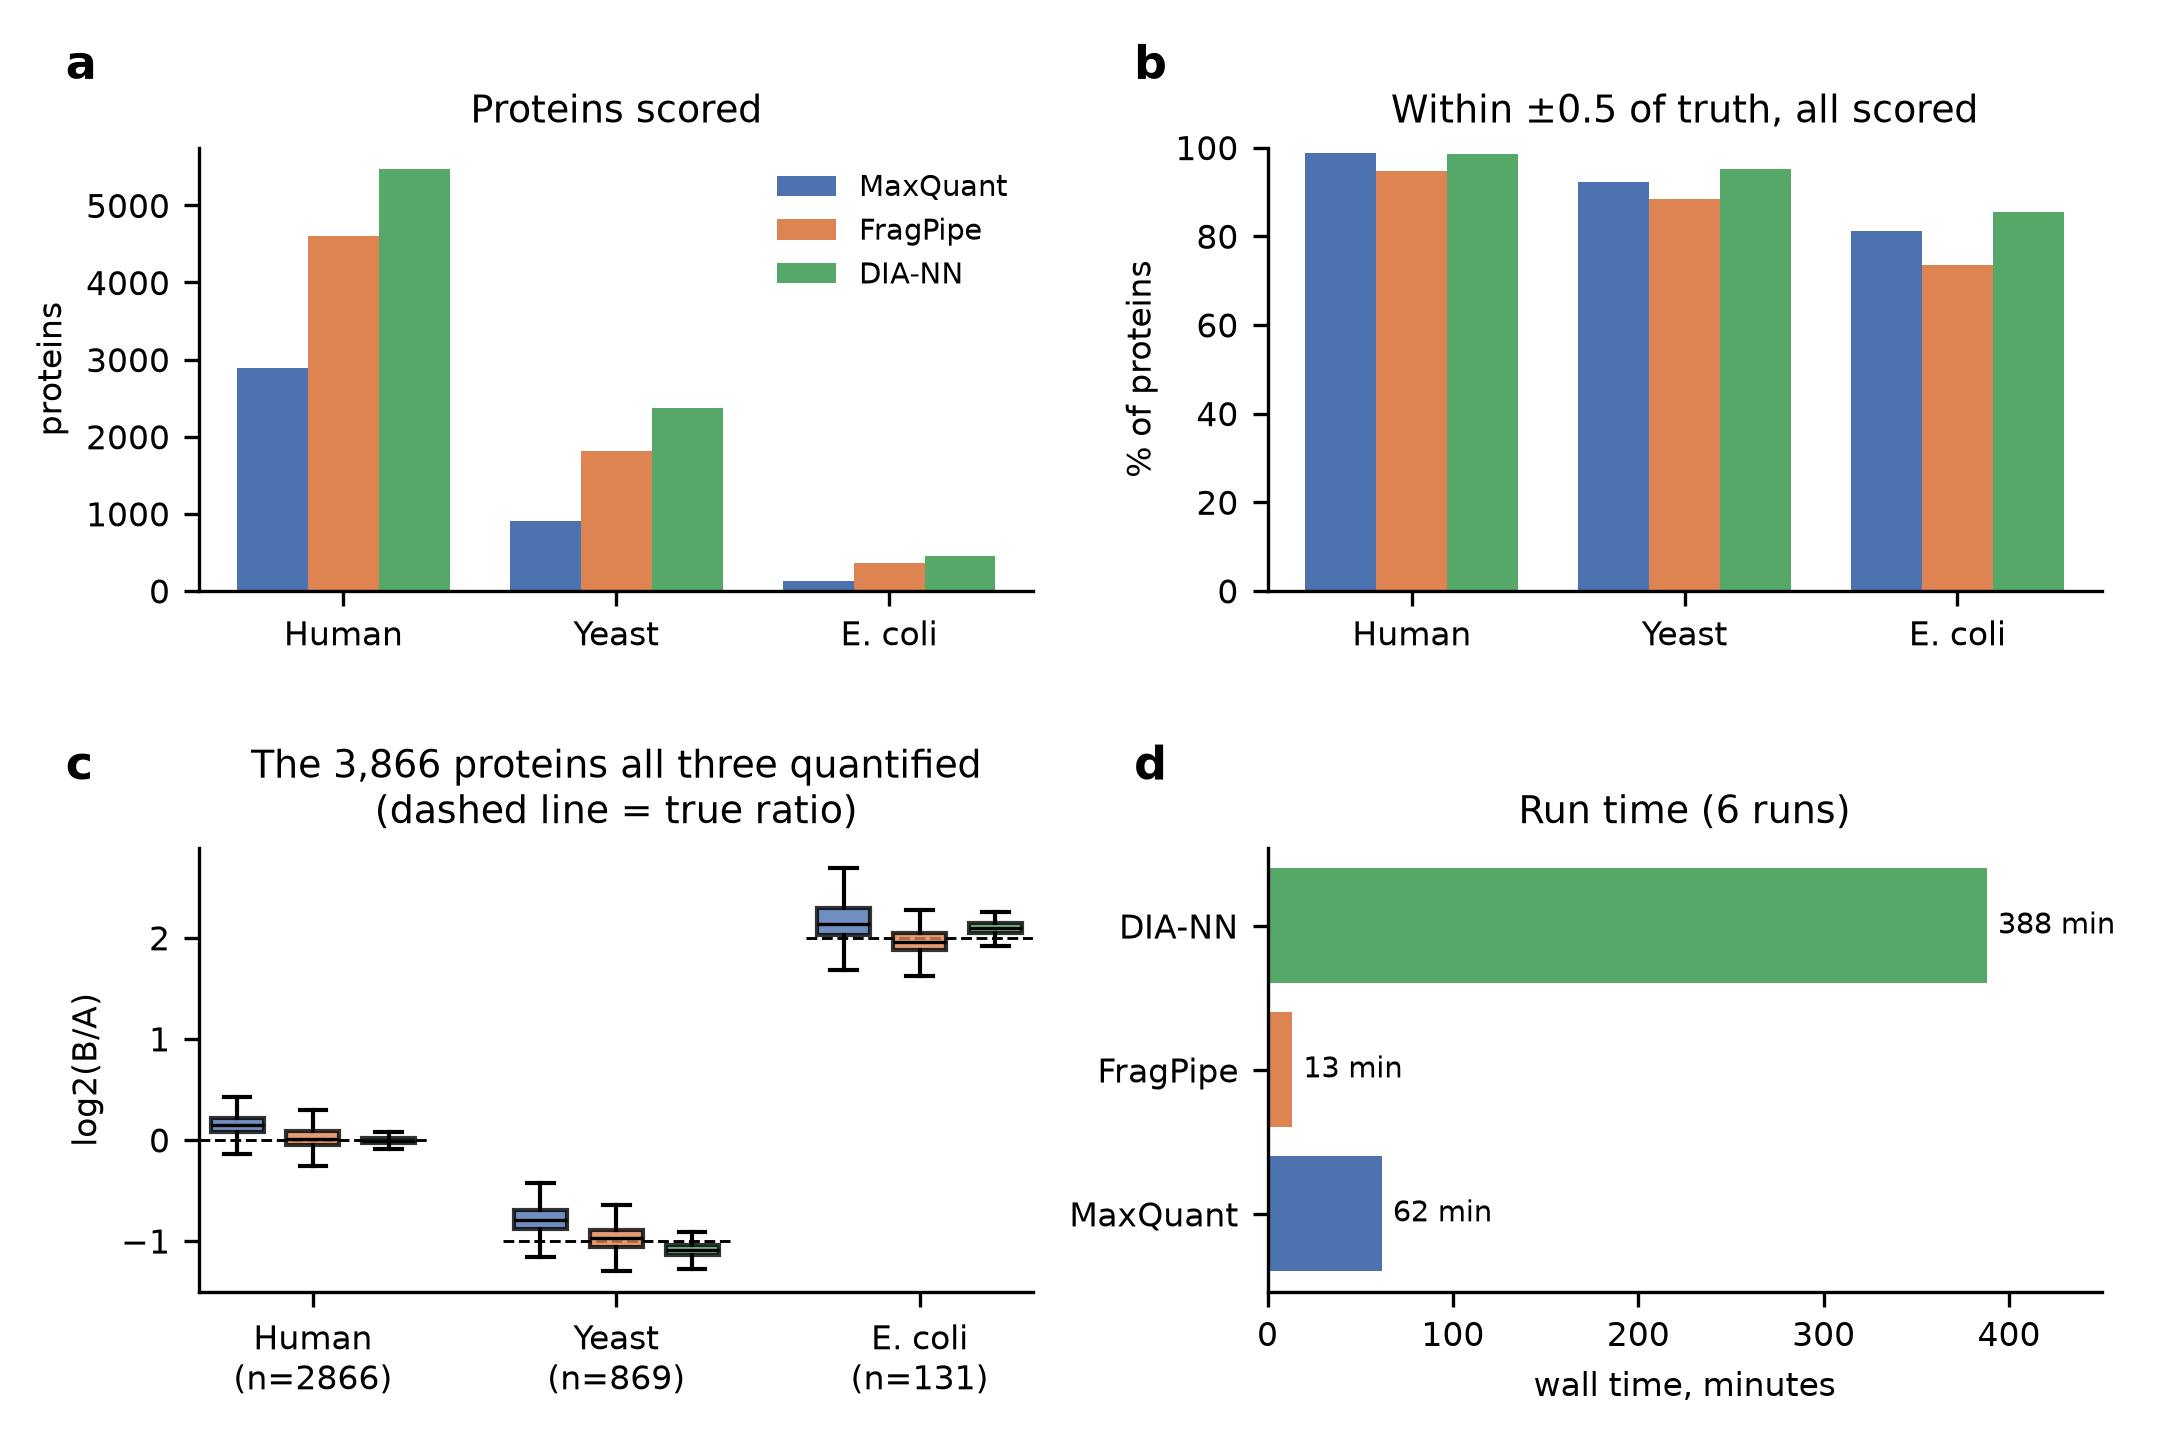
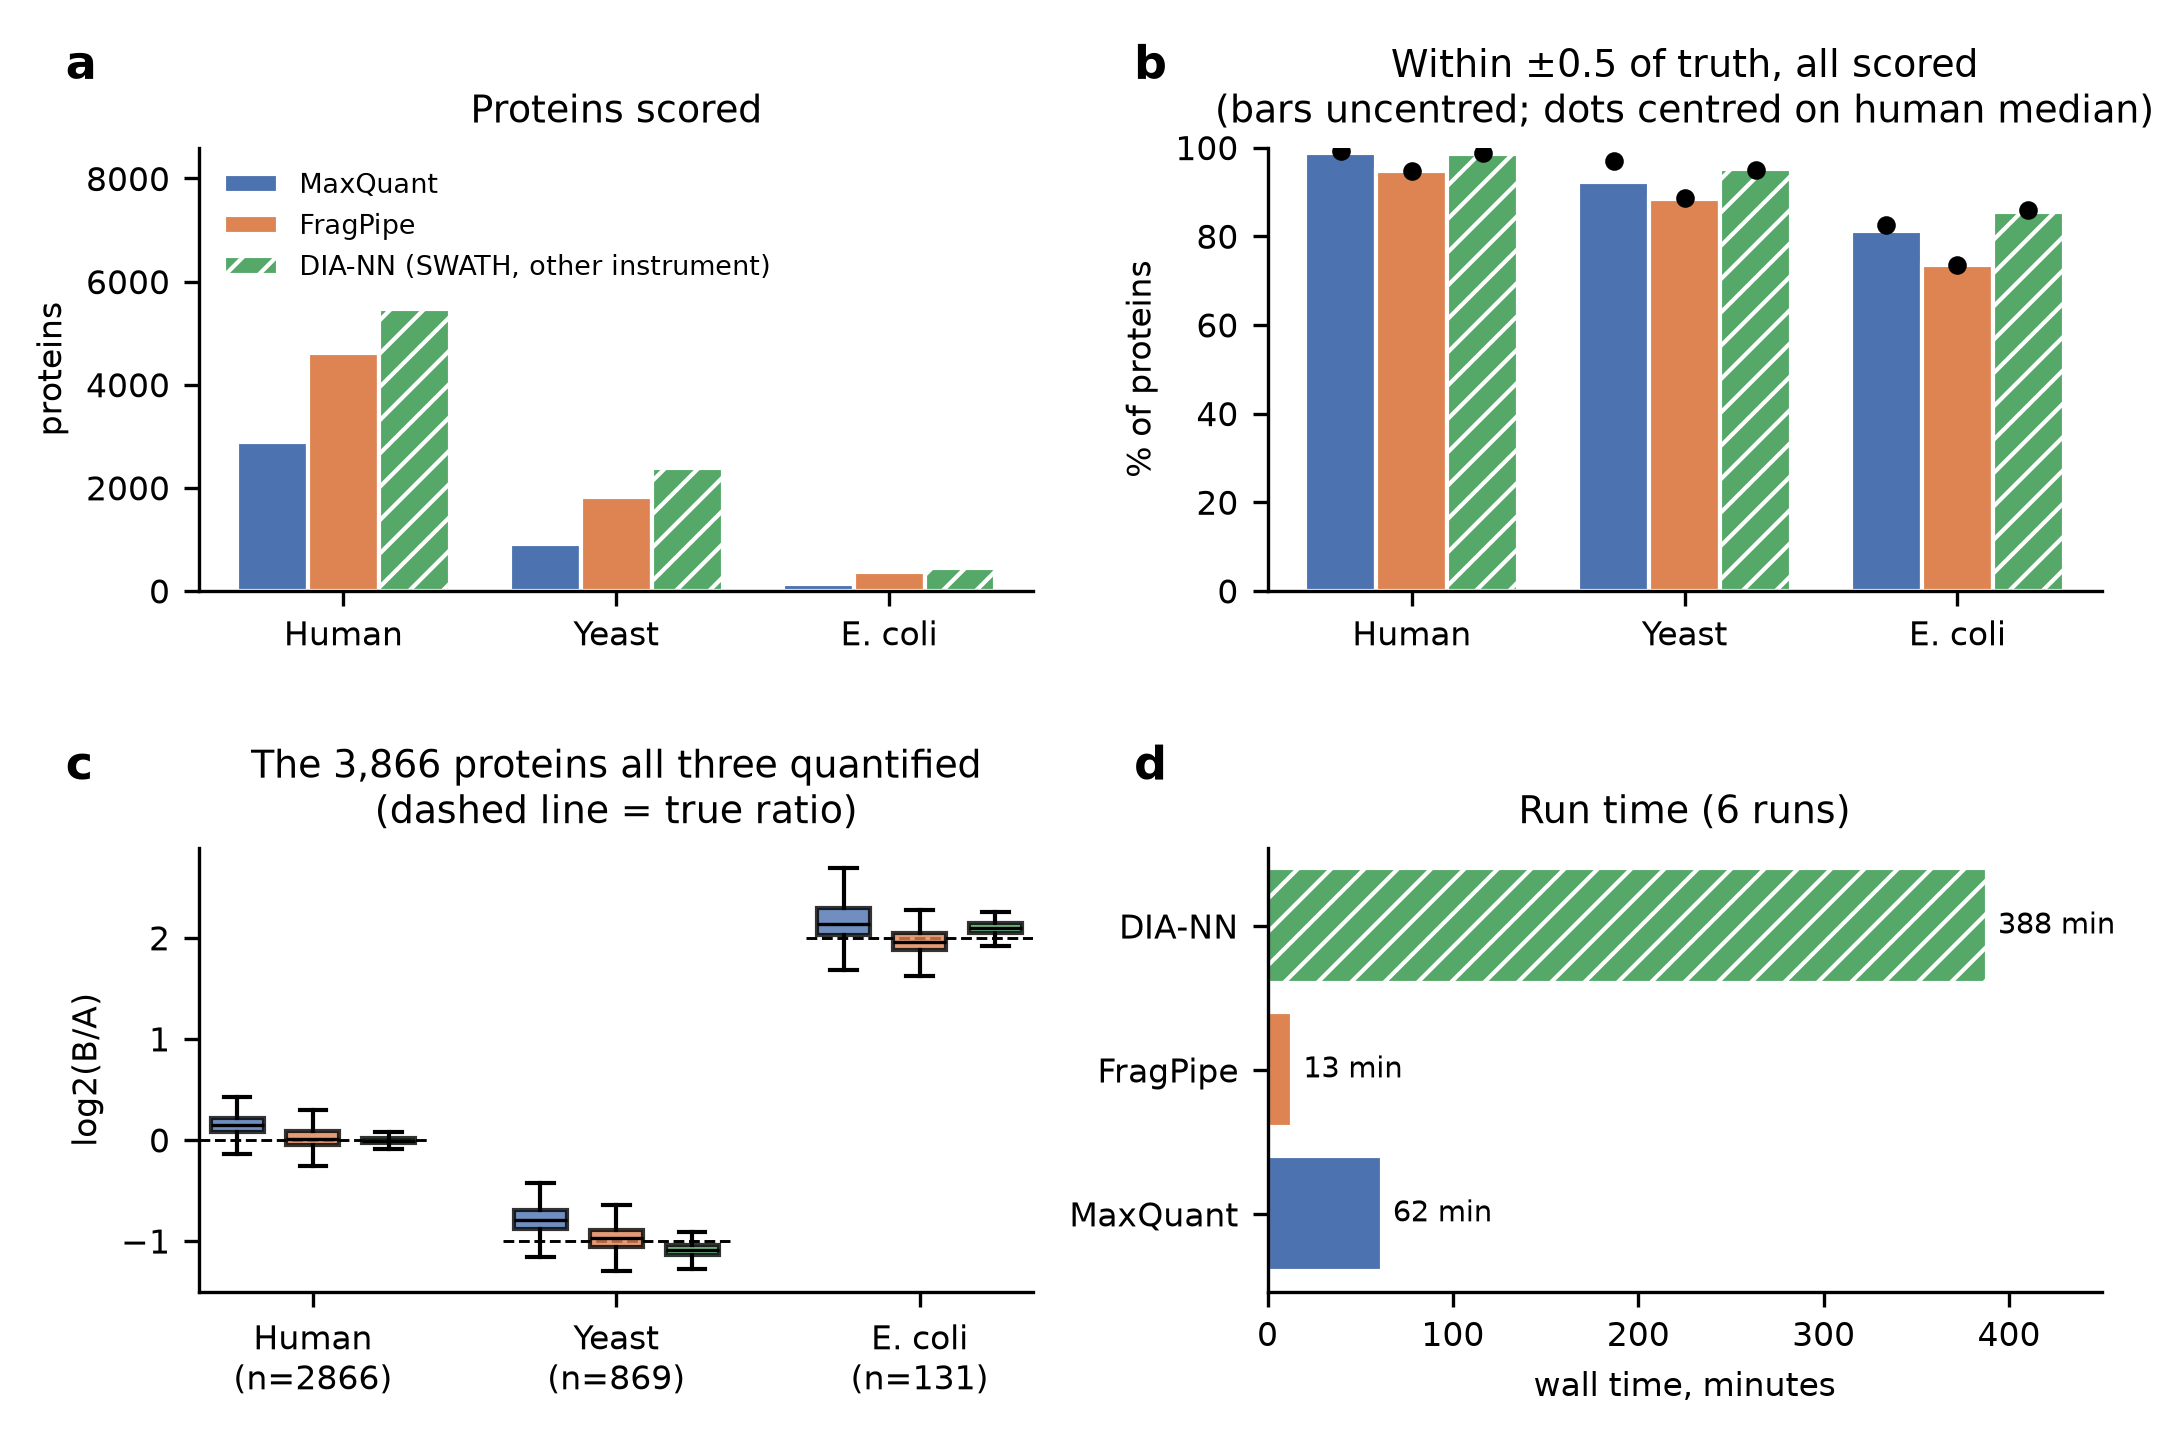
v1.0.2: centred engine scores, intensity-matched MBR check, updated figures; DIA-NN README wording

diff --git a/preprint-hye/figures.py b/preprint-hye/figures.py
@@ -29,12 +29,17 @@ tab = {"MaxQuant": mq, "FragPipe": fp, "DIA-NN": dn}
 
 fig, axs = plt.subplots(2, 2, figsize=(7.2, 4.8)); axs = axs.ravel()
 x = np.arange(3); w = 0.26
+cen = pd.read_csv(Path(__file__).resolve().parent / "centred_engines.csv").set_index(["engine", "species"])
+HATCH = {"DIA-NN": "///"}
 for i, e in enumerate(ENG):
-    axs[0].bar(x + (i - 1) * w, [tab[e].loc[s, "n"] for s in SP], w, color=COL[e], label=e)
-    axs[1].bar(x + (i - 1) * w, [100 * tab[e].loc[s, "within_0.5"] for s in SP], w, color=COL[e])
-for a, t, yl in [(axs[0], "Proteins scored", "proteins"), (axs[1], "Within ±0.5 of truth, all scored", "% of proteins")]:
+    lab = e + (" (SWATH, other instrument)" if e == "DIA-NN" else "")
+    axs[0].bar(x + (i - 1) * w, [tab[e].loc[s, "n"] for s in SP], w, color=COL[e], label=lab, hatch=HATCH.get(e), edgecolor="white")
+    axs[1].bar(x + (i - 1) * w, [100 * tab[e].loc[s, "within_0.5"] for s in SP], w, color=COL[e], hatch=HATCH.get(e), edgecolor="white")
+    axs[1].scatter(x + (i - 1) * w, [cen.loc[(e, s), "within_centred"] for s in SP], s=12, color="k", zorder=3,
+                   )
+for a, t, yl in [(axs[0], "Proteins scored", "proteins"), (axs[1], "Within ±0.5 of truth, all scored\n(bars uncentred; dots centred on human median)", "% of proteins")]:
     a.set_xticks(x, [SPL[s] for s in SP]); a.set_title(t); a.set_ylabel(yl)
-axs[1].set_ylim(0, 100); axs[0].legend(frameon=False, loc="upper right", bbox_to_anchor=(1.0, 1.0))
+axs[1].set_ylim(0, 100); axs[0].set_ylim(0, 8600); axs[0].legend(frameon=False, loc="upper left", fontsize=6.5)
 pos = []; data = []; cols = []
 for j, s in enumerate(SP):
     sub = common[common["species"] == s]
@@ -46,7 +51,7 @@ for p, c in zip(bp["boxes"], cols): p.set_facecolor(c); p.set_alpha(0.8)
 axs[2].set_xticks([1, 5, 9], [f"{SPL[s]}\n(n={int((common['species'] == s).sum())})" for s in SP])
 axs[2].set_ylabel("log2(B/A)"); axs[2].set_title("The 3,866 proteins all three quantified\n(dashed line = true ratio)")
 mins = {"MaxQuant": 61.6, "FragPipe": 9.3 + 4.0, "DIA-NN": 377 + 11}
-axs[3].barh(ENG, [mins[e] for e in ENG], color=[COL[e] for e in ENG]); axs[3].set_xlim(0, 450)
+axs[3].barh(ENG, [mins[e] for e in ENG], color=[COL[e] for e in ENG], hatch=[HATCH.get(e, "") for e in ENG], edgecolor="white"); axs[3].set_xlim(0, 450)
 axs[3].set_xlabel("wall time, minutes"); axs[3].set_title("Run time (6 runs)")
 for e in ENG: axs[3].text(mins[e] + 6, e, f"{mins[e]:.0f} min", va="center", fontsize=7)
 for a, l in zip(axs, "abcd"): label(a, l)
@@ -137,11 +142,17 @@ fig.tight_layout(); fig.savefig(OUT / "fig4_statistics.png"); plt.close(fig)
 cnt = pd.read_csv(E / "string-background/counts.csv")
 cnt["total"] = cnt[["Process", "Component", "Function", "KEGG"]].sum(axis=1)
 r = cnt[cnt.list == "random"]
-fig, ax = plt.subplots(1, 1, figsize=(3.4, 2.3))
+fig, (ax, ax2) = plt.subplots(1, 2, figsize=(6.4, 2.5))
 g = r[r.background == "genome"]["total"].values; d = r[r.background == "detected"]["total"].values
 for gi, di in zip(g, d): ax.plot([0, 1], [gi, di], c="#BBBBBB", lw=0.6)
 ax.scatter(np.zeros_like(g), g, c="#C44E52", s=14); ax.scatter(np.ones_like(d), d, c="#4C72B0", s=14)
 ax.set_xticks([0, 1], ["whole genome\n(STRING default)", "detected proteins"]); ax.set_xlim(-0.4, 1.4)
-ax.set_ylabel("GO + KEGG terms at FDR < 0.05"); ax.set_title(f"20 random lists of 300 detected proteins\nmedian {np.median(g):.0f} vs {np.median(d):.0f}")
+ax.set_ylabel("GO + KEGG terms at FDR < 0.05"); ax.set_title(f"20 random lists (no signal)\nmedian {np.median(g):.0f} vs {np.median(d):.0f}")
+p = cnt[cnt.list == "planted"]; pg_ = p[p.background == "genome"]["total"].values; pd_ = p[p.background == "detected"]["total"].values
+for gi, di in zip(pg_, pd_): ax2.plot([0, 1], [gi, di], c="#BBBBBB", lw=0.6)
+ax2.scatter(np.zeros_like(pg_), pg_, c="#C44E52", s=14); ax2.scatter(np.ones_like(pd_), pd_, c="#4C72B0", s=14)
+ax2.set_xticks([0, 1], ["whole genome", "detected proteins"]); ax2.set_xlim(-0.4, 1.4)
+ax2.set_title("5 lists with 15 cholesterol-biosynthesis\nproteins planted (found in all 10 runs)")
+label(ax, "a"); label(ax2, "b")
 fig.tight_layout(); fig.savefig(OUT / "fig5_enrichment.png"); plt.close(fig)
 print("ok", sorted(p.name for p in OUT.iterdir()))

diff --git a/diann-hye/README.md b/diann-hye/README.md
@@ -1,6 +1,6 @@
 # DIA-NN 2.3.2 × PXD028735 HYE benchmark (2026-10-12/13)
 
-Data: PRIDE PXD028735 (Van Puyvelde et al., Sci Data 2022, CC BY 4.0) — **SCIEX TripleTOF 6600 SWATH** (the dataset has no Orbitrap DIA).
+Data: PRIDE PXD028735 (Van Puyvelde et al., Sci Data 2022, CC BY 4.0) — **SCIEX TripleTOF 6600+ SWATH** (99 variable windows). The dataset's Orbitrap DIA runs (AIF with staggered windows, GP-DIA) were not used.
 Same design as the MaxQuant/FragPipe posts: Condition_{A,B}_Sample_{Alpha,Beta,Gamma}_01 → 3 vs 3. Truth log2(B/A): human 0, yeast −1, E. coli +2.
 FASTA: same Swiss-Prot human+yeast+E. coli file as the FragPipe run (31,695 entries; fp-hye/db/hye_sp.fasta).
 Raw files (30.3 GB, 6 .wiff + 6 .wiff.scan) are not in this repository; download them from PRIDE. report.pg_matrix.tsv and the derived matrices are included.
